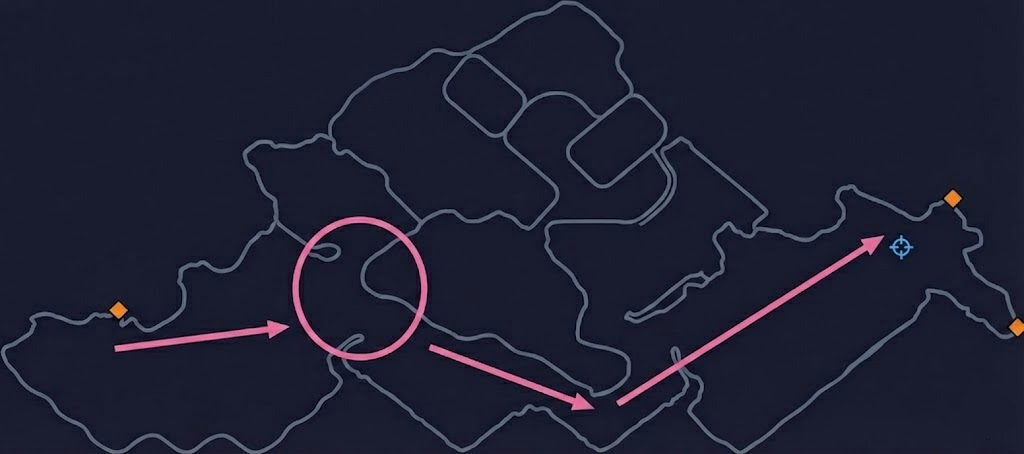
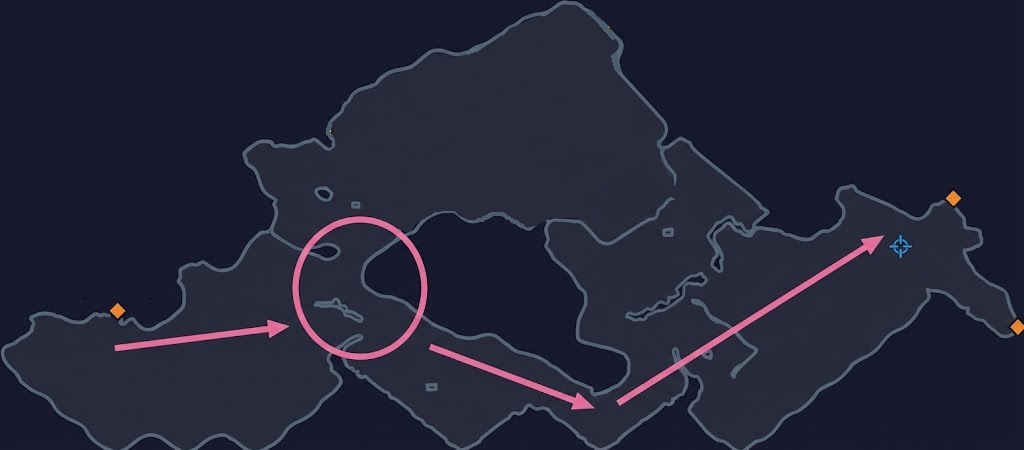
Add screenshots to README + new map images
- Add 3 screenshots to docs/
- Display screenshots in README.md
- Add new map images (水晶鉱脈)
- Update coast map images

diff --git a/README.md b/README.md
@@ -1,9 +1,11 @@
-# ぽえなび（PoENavi）
+# PoENavi
 
-Path of Exile 1 の軽量なレベリングガイド＆タイマーツール。  
+Path of Exile 1 向けの軽量レベリングガイド＆タイマーツール。  
 **Client.txtログ監視による自動エリア検知**＋**攻略ガイド**＋**マップ画像表示**＋**RTAタイマー**を表示。
 
-<!-- ![screenshot](docs/screenshot.png) -->
+![screenshot1](docs/screenshot1.png)
+![screenshot2](docs/screenshot2.png)
+![screenshot3](docs/screenshot3.png)
 
 ---
 
@@ -15,9 +17,6 @@ Path of Exile 1 の軽量なレベリングガイド＆タイマーツール。
 - **基本方向矢印** — そのエリアで進むべき方向を大きな矢印で表示
 - **経験値効率表示** — 🌟マーク付きで稼ぎポイントがひと目でわかる
 - ガイドデータはSetting画面からユーザでも自由に編集可能
-
-※ひな型のガイド情報は、私が過去に作った攻略チャートの内容です。全体の流れを見たい場合などはこちらをご確認ください。
-  https://docs.google.com/spreadsheets/d/1fVbL4CPHUw-5IlHoL0ol--_d-YqYSI3uwbmPLignZ8k/edit?gid=1939686731#gid=1939686731
 
 ### 📍 自動エリア検知 & XPペナルティ判定
 - **PoEのClient.txtログをリアルタイム監視** — エリア移動・レベルアップを自動検知
@@ -162,16 +161,6 @@ PoE1ではAct 6-10の一部エリアがAct 1-5と同名で登場します。
 | `maps/` | マップ画像 | ✓（同梱） |
 
 初回起動時、`config.json` と `guide_data.json` はデフォルト値で自動生成されます。
-
----
-
-## 📝 今後の対応予定
-
-リーグ3.28が開始するまでに以下を実施予定です。
-- タイマー機能の自動化（ログファイルをウォッチして自動で各Act終了時などのタイミングを判定して記録）
-- マップレイアウト画像の充実化
-- Act3で図書館へ行かない場合を考慮したつくり
-- Act8で「穀物倉庫」から地下を通るルートを考慮したつくり
 
 ---
 
